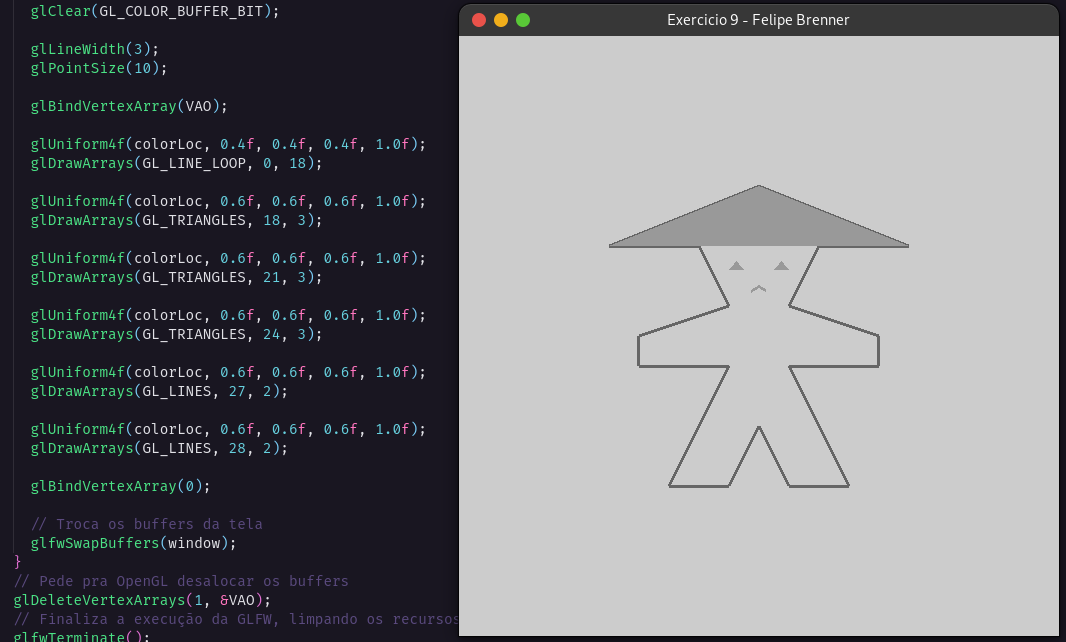
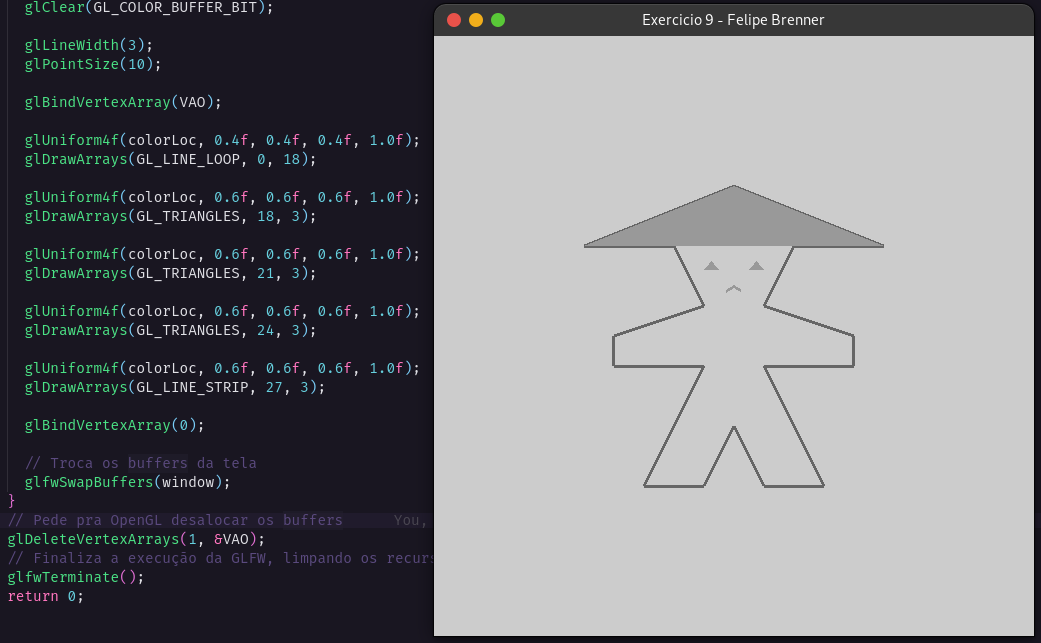
Utilizado LINE_STRIP

diff --git a/Lista1/Exercicio9/src/Source.cpp b/Lista1/Exercicio9/src/Source.cpp
@@ -95,10 +95,7 @@ int main()
 		glDrawArrays(GL_TRIANGLES, 24, 3);
 
 		glUniform4f(colorLoc, 0.6f, 0.6f, 0.6f, 1.0f);
-		glDrawArrays(GL_LINES, 27, 2);
-
-		glUniform4f(colorLoc, 0.6f, 0.6f, 0.6f, 1.0f);
-		glDrawArrays(GL_LINES, 28, 2);
+		glDrawArrays(GL_LINE_STRIP, 27, 3);
 
 		glBindVertexArray(0);
 
